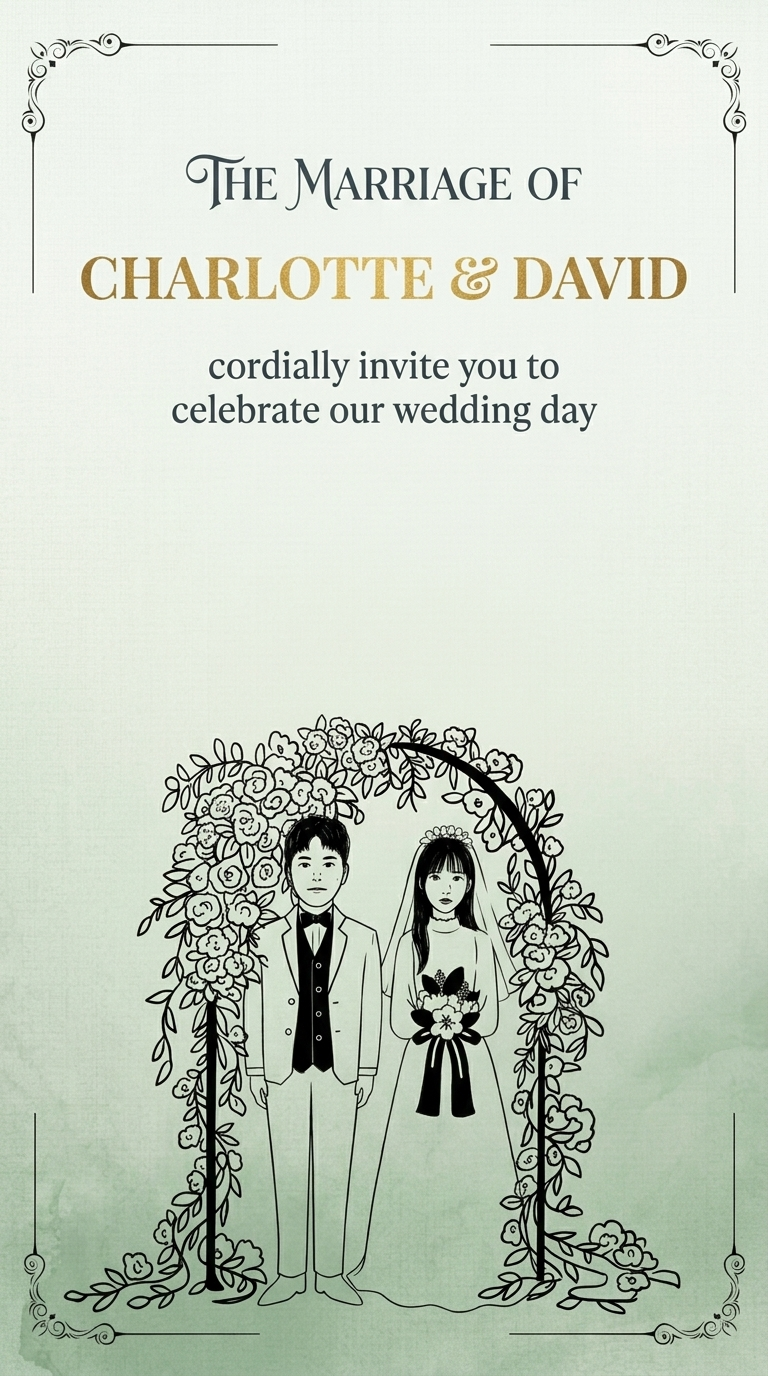
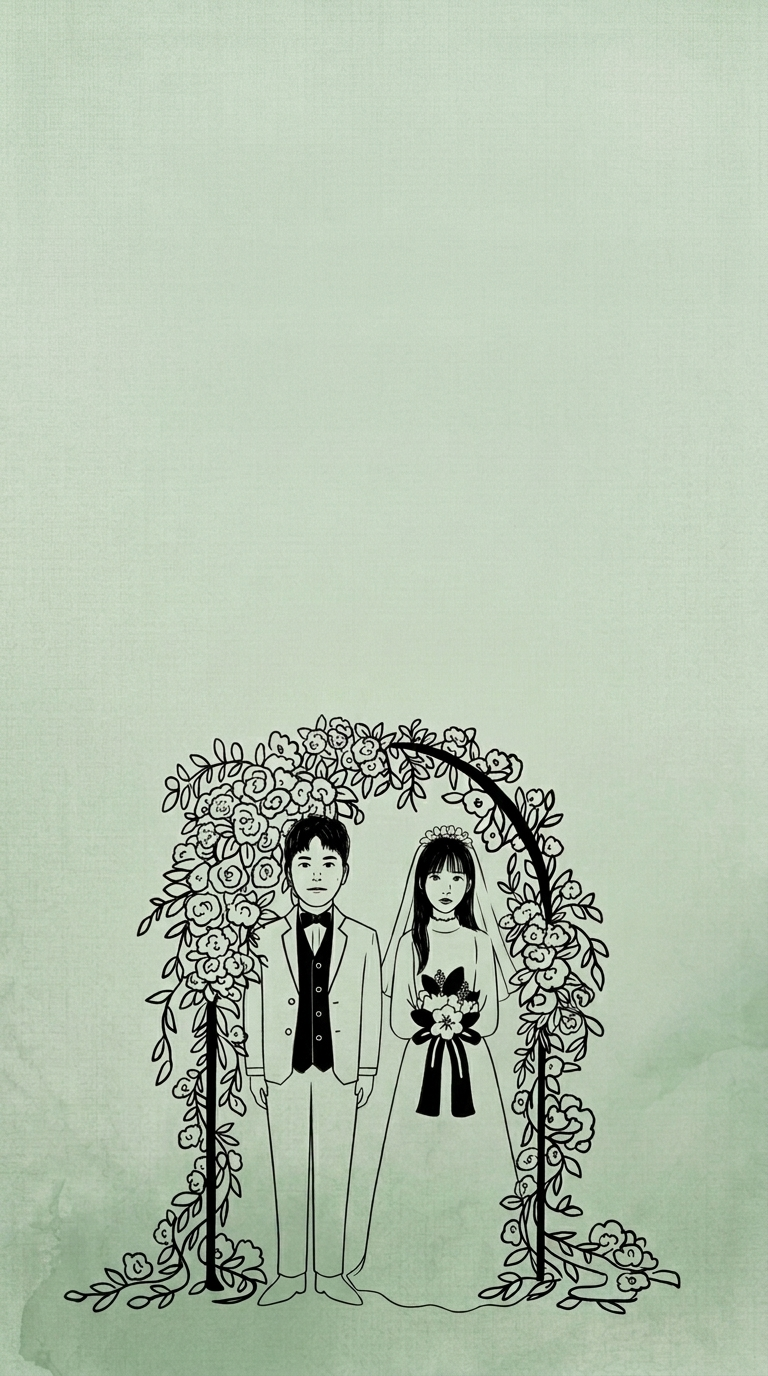
Update cover background to a completely clean text-free Morandi green watercolor wash, and increment cache buster to v=6

diff --git a/index.html b/index.html
@@ -67,8 +67,8 @@
 
   <!-- Section 1: Hero Cover -->
   <header id="hero" class="hero-section">
-    <div class="hero-bg-blur" style="background-image: url('assets/images/cover/cover.png?v=5');"></div>
-    <div class="hero-bg" style="background-image: url('assets/images/cover/cover.png?v=5');"></div>
+    <div class="hero-bg-blur" style="background-image: url('assets/images/cover/cover.png?v=6');"></div>
+    <div class="hero-bg" style="background-image: url('assets/images/cover/cover.png?v=6');"></div>
     <div class="hero-overlay"></div>
     <div class="hero-content fade-in">
       
